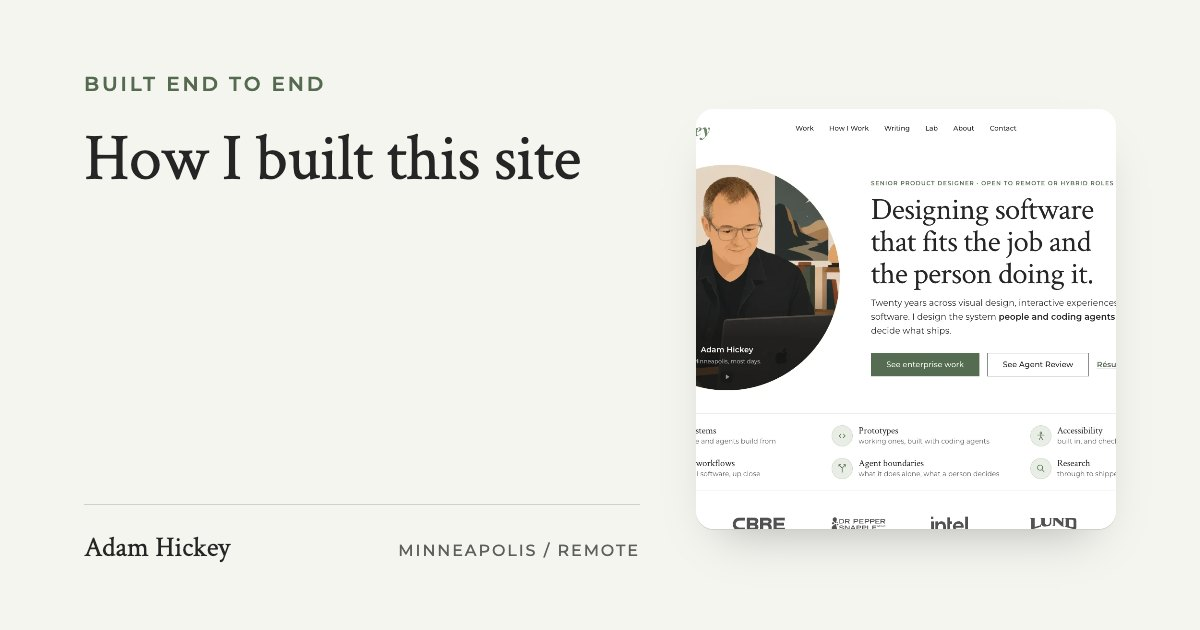
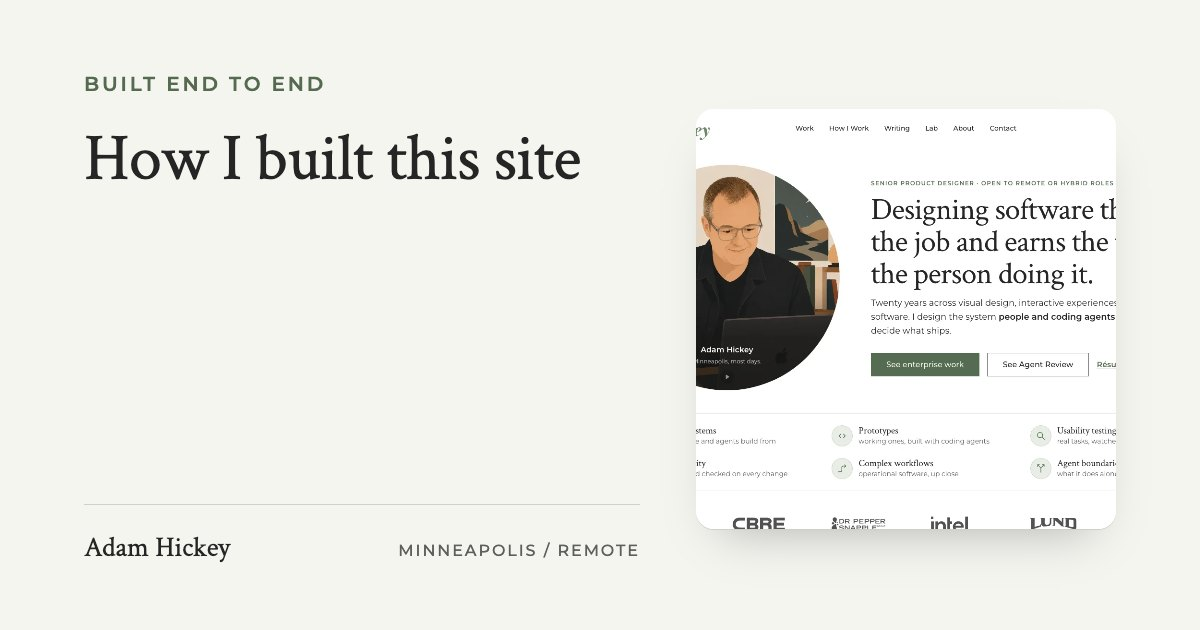
The homepage headline earns trust: "Designing software that fits the job and earns the trust of the person doing it." The same line on the share card (og.mjs, img/og/index.jpg), og:description, llms.txt and the this-site capture's alt text; the capture retaken at 1400x875 and to ?v=14, and the this-

diff --git a/case-study/this-site.html b/case-study/this-site.html
@@ -238,8 +238,8 @@
              sits one click away would be the one dishonest picture here. -->
         <figure class="build-shot">
           <div class="build-laptop"><div class="build-laptop-lid">
-              <img src="../img/site/this-site.webp?v=13" width="1400" height="875" fetchpriority="high" decoding="async"
-                   alt="The homepage of this site at laptop width: the wordmark and six section links across the top, the portrait in a circle on the left, and on the right the eyebrow Senior Product Designer &middot; Open to remote or hybrid roles over the title &ldquo;Designing software that fits the job and the person doing it.&rdquo;, a three-line dek beginning &ldquo;Twenty years across visual design, interactive experiences, and enterprise software.&rdquo;, a green See enterprise work button, an outlined See Agent Review button and a R&eacute;sum&eacute; link. Under the pair, six facts in two rows of three, each with a small line icon in a pale disc, among them Agent boundaries, and a row of six client wordmarks along the bottom." />
+              <img src="../img/site/this-site.webp?v=14" width="1400" height="875" fetchpriority="high" decoding="async"
+                   alt="The homepage of this site at laptop width: the wordmark and six section links across the top, the portrait in a circle on the left, and on the right the eyebrow Senior Product Designer &middot; Open to remote or hybrid roles over the title &ldquo;Designing software that fits the job and earns the trust of the person doing it.&rdquo;, a three-line dek beginning &ldquo;Twenty years across visual design, interactive experiences, and enterprise software.&rdquo;, a green See enterprise work button, an outlined See Agent Review button and a R&eacute;sum&eacute; link. Under the pair, six facts in two rows of three, each with a small line icon in a pale disc, among them Agent boundaries, and a row of six client wordmarks along the bottom." />
             </div></div>
         </figure>
 

diff --git a/index.html b/index.html
@@ -21,7 +21,7 @@
 
   <meta name="color-scheme" content="light" />
   <meta property="og:title" content="Adam Hickey | Senior Product Designer for Complex Software" />
-  <meta property="og:description" content="Designing software that fits the job and the person doing it. Twenty years across visual design, interactive experiences, and enterprise software: I design the system people and coding agents build from, and decide what ships." />
+  <meta property="og:description" content="Designing software that fits the job and earns the trust of the person doing it. Twenty years across visual design, interactive experiences, and enterprise software: I design the system people and coding agents build from, and decide what ships." />
   <meta property="og:type" content="website" />
   <!-- Absolute because scrapers do not resolve a relative og:image, and the
        canonical origin is the production one whichever host is serving this:
@@ -393,7 +393,7 @@
                searches. The share card, og:description and llms.txt's summary
                moved with it; the <title> and description are search language
                and stayed. -->
-<h1 class="hero-title">Designing software that fits the job and the person doing it.</h1>
+<h1 class="hero-title">Designing software that fits the job and earns the trust of the person doing it.</h1>
           <!-- ONE PARAGRAPH, since 2026-10-09. The thesis came out: "AI is
                changing the shape of product design" is the one sentence on
                the page every reader already believes, and "I'm exploring
